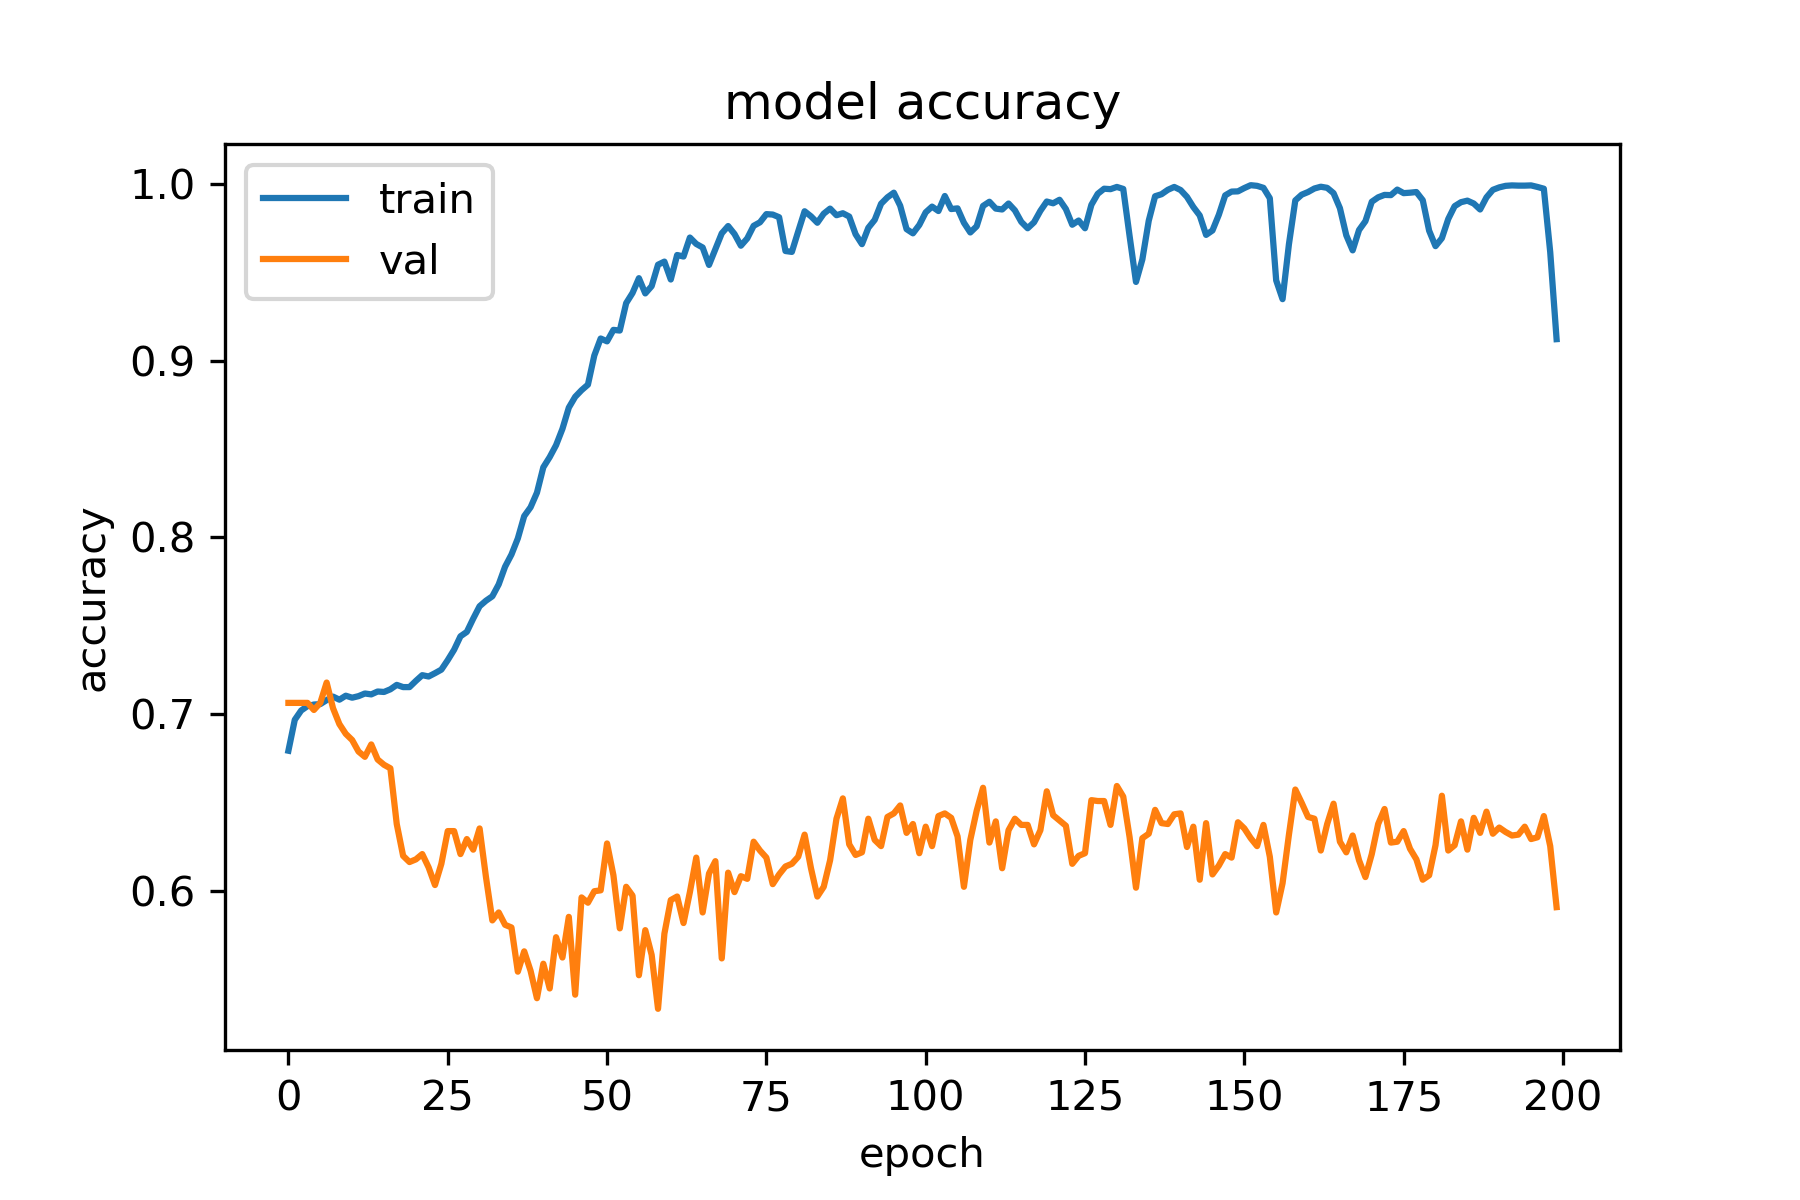
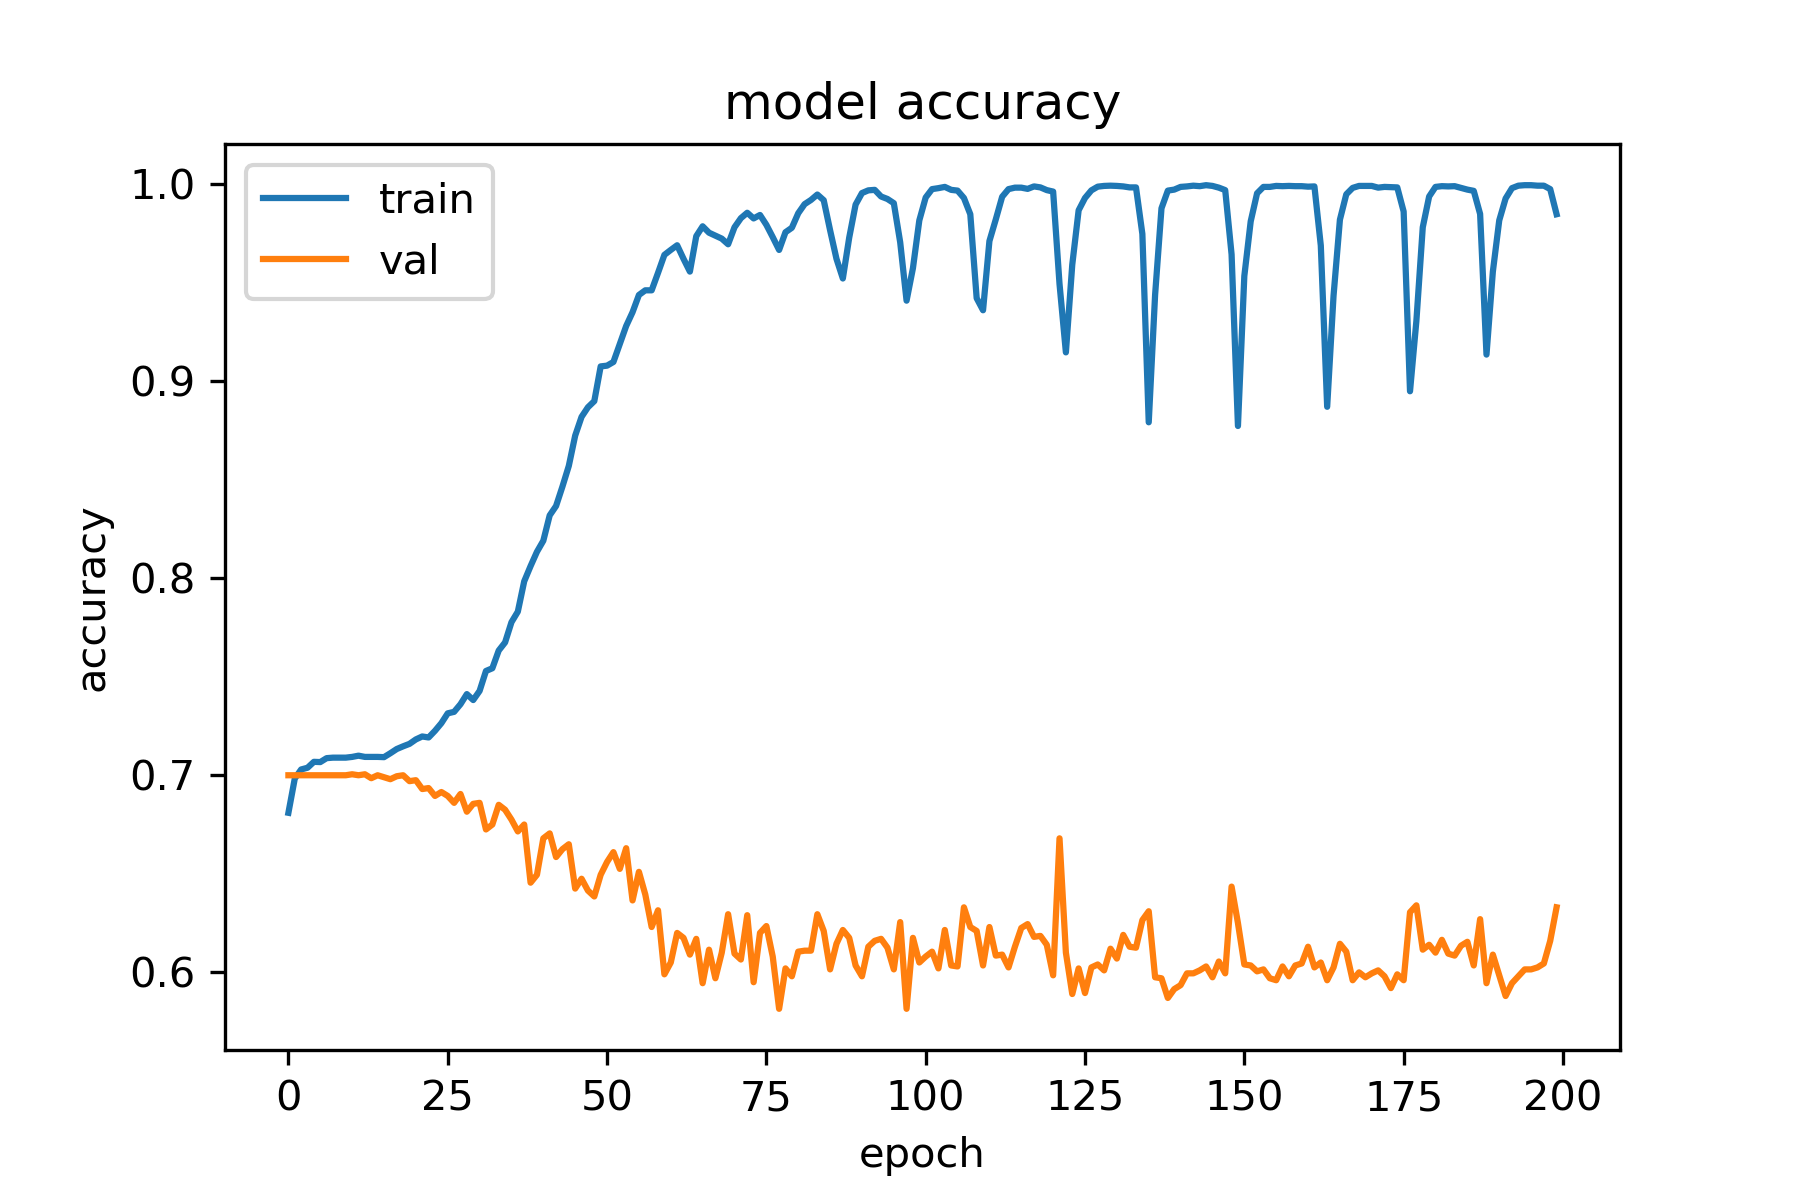
Working and commented version

diff --git a/trial1.py b/trial1.py
@@ -53,7 +53,6 @@ lyft_data['DropOff_datetime'] = lyft_data['DropOff_datetime'].apply(lambda x: x.
 #read area data
 area_stat = pd.read_csv("areaStat.csv")
 
-
 #remove the area id and save the features as area_stat_np
 area_stat_np = area_stat.loc[:, area_stat.columns != 'Matching_area'].to_numpy()
 
@@ -66,14 +65,13 @@ A = sparse.csr_matrix(area_A)
     
 
 # Parameters
-
 K = 2                   # Degree of propagation (Parameter of the GCN, do not know what it means though)
 N = area_stat.shape[0]          # Number of nodes in the graph (Do not change)
 F = area_stat_np.shape[1]          # Original size of node features (Do not change)
 l2_reg = 5e-6           # L2 regularization rate
 learning_rate = 0.005     # Learning rate
 epochs = 200         # Number of training epochs
-embedding_vecor_length1 = 64
+embedding_vecor_length1 = 32
 embedding_vecor_length2 = 32
 include_batch_norm_layers = True
 include_dropout_layers = False
@@ -151,7 +149,6 @@ if not include_batch_norm_layers:
 
 ac1 = LRelu(alpha=0.3)(bn1)#activation on g1 (Chosen LickyReLU)
 
-
 g2 = GraphConv(embedding_vecor_length2, # Second graph conv layer
                    kernel_regularizer=l2(l2_reg),
                    use_bias=True)([ac1, fltr_in])
@@ -164,7 +161,9 @@ bn2 = BN(axis=-1, momentum=0.99, epsilon=0.001, center=True, scale=True,
 if not include_batch_norm_layers: 
     bn2 = g2
     
+    
 ac2 = LRelu(alpha=0.3)(bn2)#activation on g2
+
 
 def gcn_to_trip(x):#lambda function corresponding to the lambda layer
     trip_input=x[0]
@@ -173,14 +172,15 @@ def gcn_to_trip(x):#lambda function corresponding to the lambda layer
     d = k.dot(trip_input[:,start_d:],graph_output)#get area encoding from g2 corresponding to the dropoff in trip data
     t = trip_input[:,:start_o]#Get the actual trip features
     out = k.concatenate((t,o,d),axis=1)#Merge trip, pickup and dropoff features
-
+    
     return out
+
+
+
 
 trip_in = Input(shape = (trip_feature, ))#trip feature input
 
-
-lam1 = Lambda(gcn_to_trip)([trip_in,g2])#The lambda layer to apply the gcn_to_trip function
-
+lam1 = Lambda(gcn_to_trip)([trip_in,ac2])
 
 bn3 = BN(axis=-1, momentum=0.99, epsilon=0.001, center=True, scale=True,
     beta_initializer='zeros', gamma_initializer='ones',
@@ -192,7 +192,7 @@ if not include_batch_norm_layers:
 
 d1 = Dense(units=500,input_dim=trip_feature+embedding_vecor_length2*2,
             kernel_regularizer=l2(l2_reg),
-            use_bias=True)(lam1)#first dense layer
+            use_bias=True)(bn3)#first dense layer
 
 bn4 = BN(axis=-1, momentum=0.99, epsilon=0.001, center=True, scale=True,
     beta_initializer='zeros', gamma_initializer='ones',
@@ -206,10 +206,8 @@ ac3 = ReLU()(bn4)#activation on d1
 
 dr1 = Dropout(rate = .2)(ac3)#drop off on d1
 
-
 if not include_dropout_layers: 
     dr1 = ac3
-
 
 d2 = Dense(units=500,
             kernel_regularizer=l2(l2_reg),
